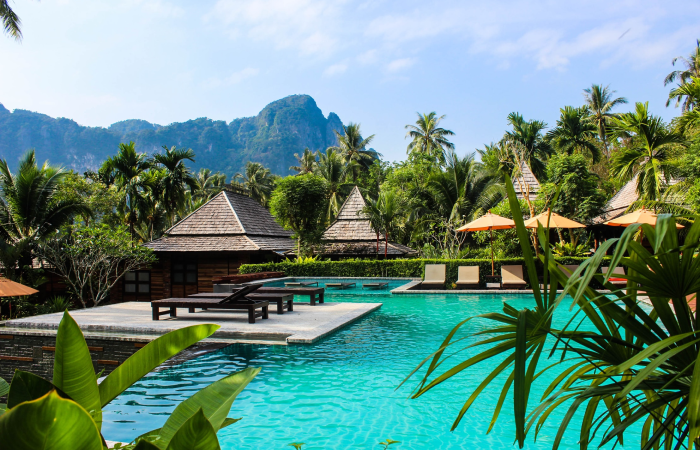
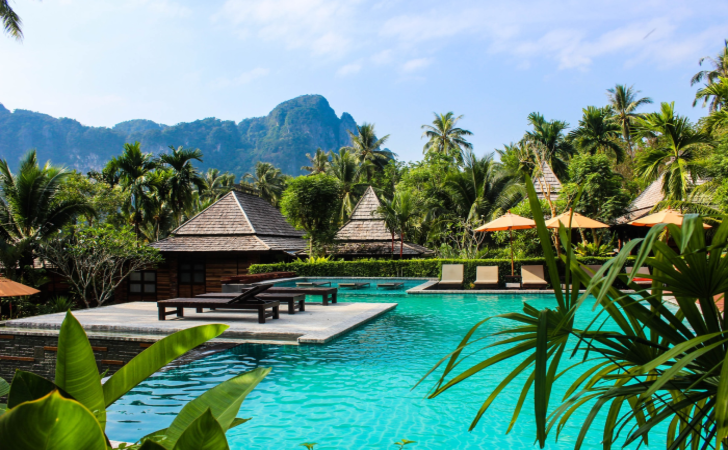
Fixed: slider

diff --git a/index.html b/index.html
@@ -139,22 +139,23 @@
                   <img src="img/slide-1.png" alt="Slide"/>
                 </div>
                 <div class="swiper-slide">
-                  <img src="img/slide-2.jpg" alt="Slide"/>
+                  <img src="img/slide-2.png" alt="Slide"/>
                 </div>
                 <div class="swiper-slide">
-                  <img src="img/slide-3.jpg" alt="Slide"/>
+                  <img src="img/slide-3.png" alt="Slide"/>
                 </div>
                  <div class="swiper-slide">
-                  <img src="img/slide-4.jpg" alt="Slide"/>
+                  <img src="img/slide-4.png" alt="Slide"/>
                 </div>
                 <div class="swiper-slide">
-                  <img src="img/slide-5.jpg" alt="Slide"/>
+                  <img src="img/slide-5.png" alt="Slide"/>
                 </div>
 
                 <!-- If we need navigation buttons -->
-                <button class="slider-button slider-button--prev"></button>
-                <button class="slider-button slider-button--next"></button>
+
               </div>
+              <button class="slider-button slider-button--prev"></button>
+              <button class="slider-button slider-button--next"></button>
             </div>
             <!--swiper-container-->
           </div>

diff --git a/css/style.css b/css/style.css
@@ -611,17 +611,18 @@ template {
   border-radius: 8px;
 }
 
-.swiper-container::after {
+.swiper-container:after {
   content: "";
   width: 100%;
   height: 100%;
+  position: absolute;
   top: 0;
   bottom: 0;
   right: 0;
   left: 0;
   background: -webkit-gradient(linear, left top, left bottom, from(rgba(0, 122, 223, 0.48)), to(rgba(255, 255, 255, 0.128)));
   background: linear-gradient(180deg, rgba(0, 122, 223, 0.48) 0%, rgba(255, 255, 255, 0.128) 100%);
-  z-index: 10;
+  z-index: 50;
 }
 
 .slider {

diff --git a/sass/blocks/_hotel.sass b/sass/blocks/_hotel.sass
@@ -63,10 +63,11 @@
   height: 450px
   position: relative
   border-radius: 8px
-  &::after
+  &:after
     content: ""
     width: 100%
     height: 100%
+    position: absolute
     top: 0
     bottom: 0
     right: 0
